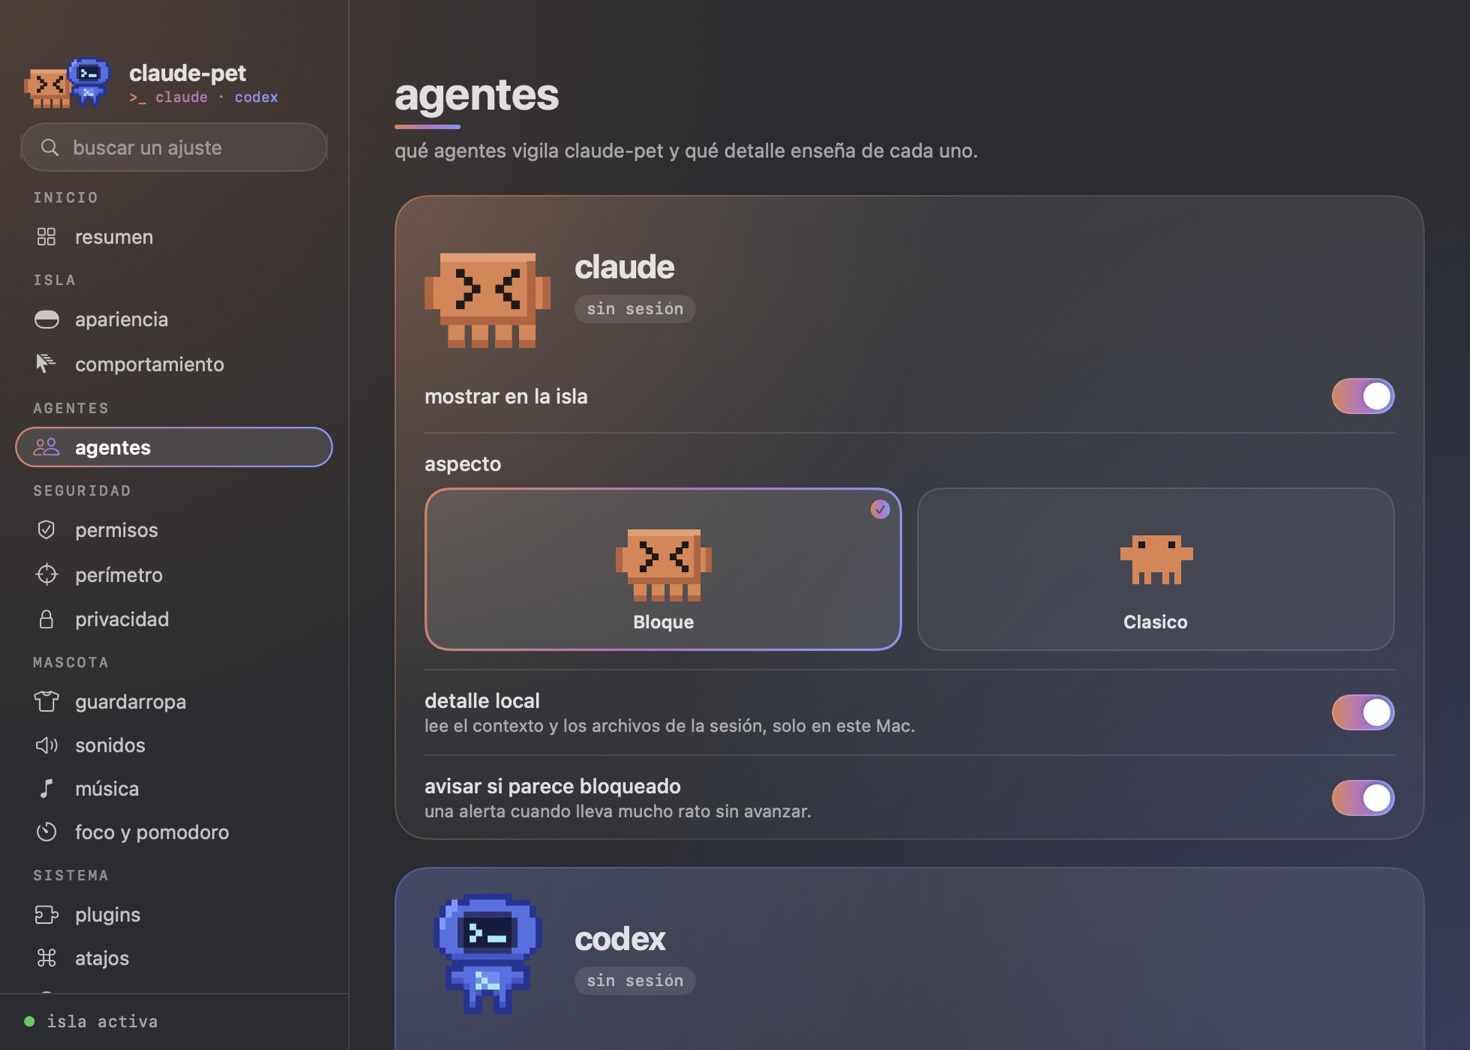
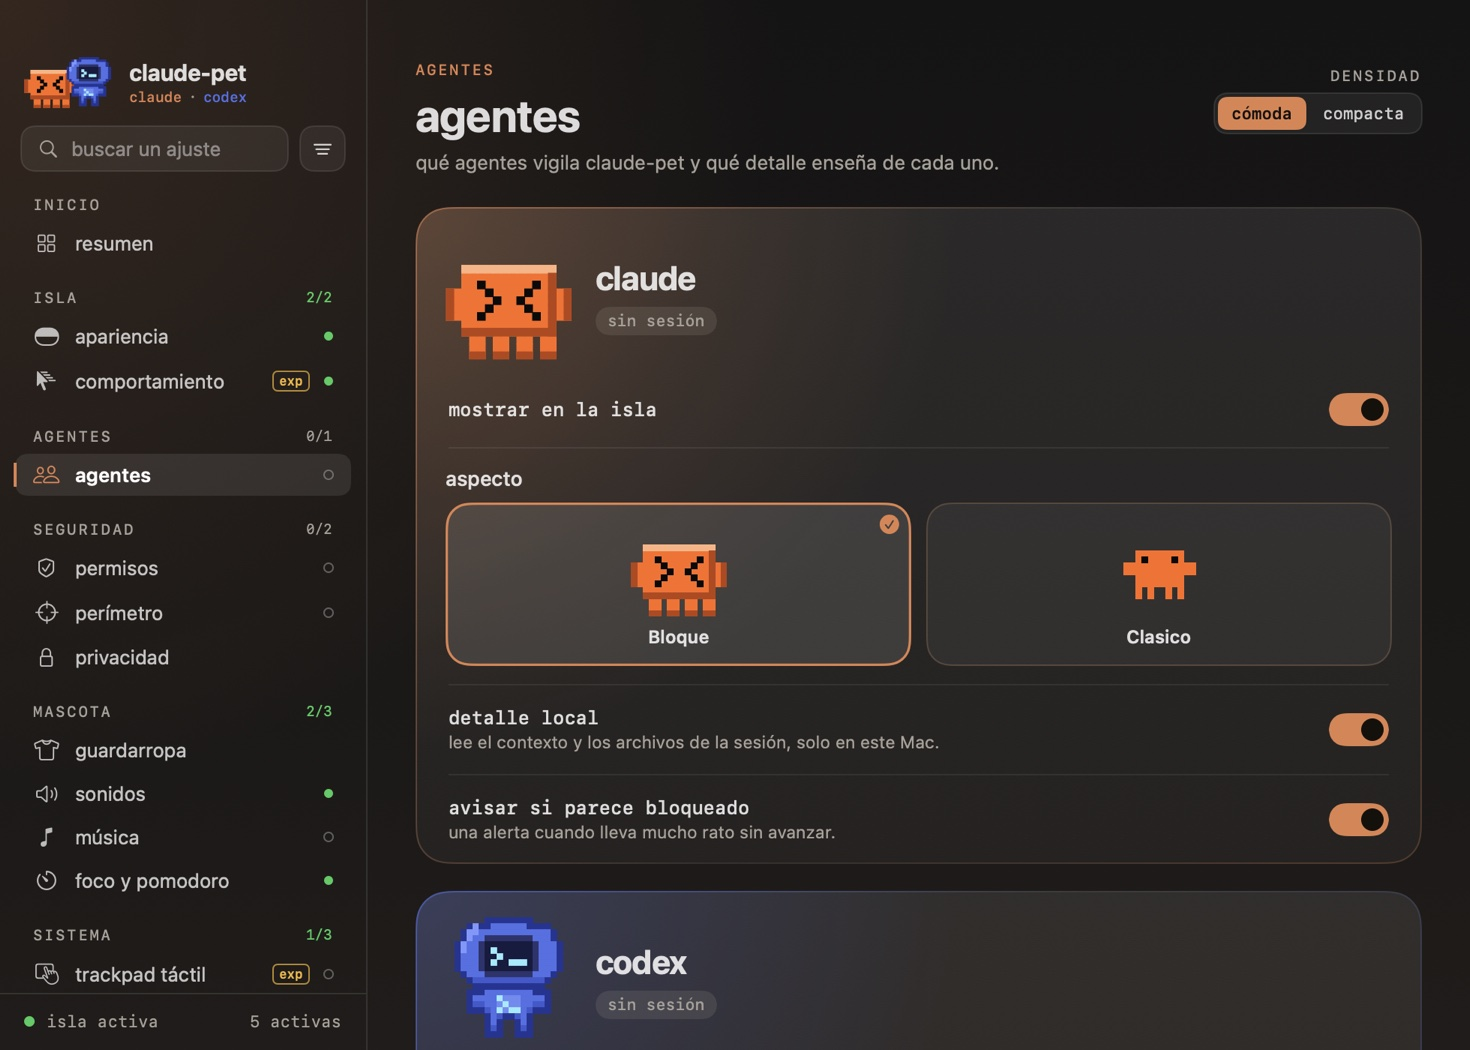
docs: ajustes y mission control rediseñados, filtros, densidad, accesibilidad y capturas nuevas

diff --git a/docs/AJUSTES.md b/docs/AJUSTES.md
@@ -2,13 +2,17 @@
 
 Ventana propia de claude-pet, en el mismo estilo oscuro de cristal que la isla. Se abre desde el menú de la barra ("ajustes…", ⌘,) o con `ClaudePet --open-settings <página>` (`resumen`, `apariencia`, `comportamiento`, `agentes`, `permisos`, `perimetro`, `privacidad`, `guardarropa`, `sonidos`, `musica`, `foco`, `atajos`, `copia`, `acerca`).
 
-La barra lateral agrupa las páginas en inicio, isla, agentes, seguridad, mascota y sistema, y el buscador filtra por título y por palabras clave sin distinguir acentos: escribir "restauracion" lleva a copia y restauración.
+La barra lateral agrupa las páginas en inicio, isla, agentes, seguridad, mascota y sistema. Junto a cada grupo va un contador de funciones encendidas (`2/3`), cada página que gobierna una función lleva un punto (verde encendida, hueco apagada), las que tienen opciones experimentales llevan la marca `exp`, y el pie suma las activas.
+
+El buscador filtra por título y por palabras clave sin distinguir acentos: escribir "restauracion" lleva a copia y restauración. El botón de filtros (con el número de filtros activos) abre fichas: categoría (todo, isla, agentes, seguridad, mascota, sistema, cada una con cuántas páginas quedan) y «solo activados» y «solo experimentales», que se combinan con el texto. Los filtros no se guardan: al reabrir la ventana empieza limpia.
+
+![filtros](img/ajustes-filtro-activados.jpg)
 
 ## páginas
 
 | página | qué controla |
 |---|---|
-| resumen | sesiones, herramientas, permisos y errores de hoy; nivel, racha y semana; copiar o guardar como imagen; acceso a mission control y relevo |
+| resumen | tablero: una tarjeta por agente con su mascota y su estado, lo de hoy, la racha con sus siete días, la semana en barras (con el cambio frente a la anterior), el uso del plan (5 h y 7 d) y el contexto de cada agente; copiar o guardar como imagen; acceso a mission control y relevo |
 | apariencia | modo, ubicación, contenido compacto, reloj, pantalla, mascotas, animaciones, partido, burbuja y avisos visuales, con vista previa |
 | comportamiento | **abrir al iniciar sesión**, ancho y retraso de la zona de activación, cuánto tarda en plegarse, **acceso rápido de la isla** (qué acciones y en qué orden), aparición automática y fijar mascotas |
 | agentes | una tarjeta por agente con su estado, mostrar u ocultar, aspecto con previsualización, gestos, detalle local y aviso de bloqueo |
@@ -26,7 +30,7 @@ La barra lateral agrupa las páginas en inicio, isla, agentes, seguridad, mascot
 
 ## identidad
 
-Claude y Codex comparten la rejilla pixel-art y el glifo `>_`; el color los separa. La ventana usa vidrio real del sistema y el dúo naranja (el bloque de Claude) → violeta → azul (la nube de Codex). Las dos mascotas van en la barra lateral, vestidas como las tengas, y cada agente tiene su tarjeta teñida de su color.
+Claude y Codex comparten la rejilla pixel-art y el glifo `>_`; el color los separa. La ventana usa vidrio real del sistema y un solo acento, el naranja `#E0824F` de Claude; el azul `#5270E8` de Codex aparece solo donde se habla de Codex. Rótulos y cifras en mono, tarjetas sin degradados y sin cajas anidadas. Las dos mascotas van en la barra lateral, vestidas como las tengas.
 
 ![resumen](img/ajustes-resumen.jpg)
 
@@ -40,6 +44,37 @@ Claude y Codex comparten la rejilla pixel-art y el glifo `>_`; el color los sepa
 
 ![atajos](img/ajustes-atajos.jpg)
 
+## densidad y accesibilidad
+
+- **densidad**: cómoda o compacta, arriba a la derecha de cada página (`settingsDensity` en UserDefaults, entra en la copia de ajustes). La compacta reduce el relleno de filas, tarjetas y barra lateral.
+- **reducir movimiento**: sigue el ajuste del sistema. Las gráficas salen ya dibujadas, los interruptores y selectores cambian sin animar y las mascotas no respiran.
+- **contraste alto**: con «aumentar contraste» del sistema las líneas, bordes y textos secundarios suben de opacidad (el estado de un interruptor también se distingue por la posición de la perilla y el de una ficha por la marca ✓). `CLAUDE_PET_HIGH_CONTRAST=1` lo fuerza.
+- **CPU en reposo**: las gráficas son `Canvas` que se dibujan una vez y solo crecen (0,45 s) cuando cambian los datos; no hay temporizadores ni animaciones permanentes.
+
+![compacta](img/ajustes-resumen-compacta.jpg)
+
+## añadir una página
+
+Dos líneas: un `case` en `SettingsPage` (`SettingsModel.swift`) y una entrada en `SettingsPage.registry` (`SettingsRegistry.swift`) con título, símbolo, grupo, palabras de búsqueda, subtítulo, si es experimental, cómo saber si su función está encendida (`isOn`, opcional) y la vista. Barra lateral, buscador, filtros, contadores y capturas la recogen solos; `--selftest-settings` falla si falta algo.
+
+## mission control
+
+El panel (menú de la barra, dock de la isla o «abrir» en resumen) usa el mismo lenguaje. Arriba, lo único que pide atención ahora; debajo, filtros visibles: buscador de texto, agente, rango (todo, última hora, hoy), estado (todos, activos, esperando, listos, error, con el número de eventos de cada uno), proyecto y orden, más el modo de vista:
+
+- **lista**: hora, agente, estado, proyecto y antigüedad.
+- **cuadrícula**: una tarjeta por proyecto con la rama y la salud de su git, sus siete días de actividad en barras, cuántas acciones de cada agente y cuándo fue la última. Pulsar una tarjeta filtra por ese proyecto.
+- **línea de tiempo**: la estela de la sesión y una línea vertical de eventos.
+
+Los filtros viven en `MissionFilter` (se prueban con `--selftest-mission-filter`) y se aplican sobre la misma lista que ya guardaba `MissionControl` (16 eventos, solo en memoria). Agente, orden, estado, rango y modo de vista se recuerdan en UserDefaults; el texto y el proyecto no. El git de una tarjeta es el último que se leyó de ese proyecto: si aún no se ha leído, dice «git sin leer». Los estados vacíos distinguen «sin actividad todavía» de «ningún evento coincide» (con botón para quitar filtros). `ClaudePet --snapshot-mission <carpeta>` dibuja las cuatro vistas con datos de ejemplo.
+
+![lista](img/mission-lista.jpg)
+
+![cuadrícula](img/mission-cuadricula.jpg)
+
+![línea de tiempo](img/mission-linea.jpg)
+
+![vacío](img/mission-vacio.jpg)
+
 ## cosas que conviene saber
 
 - **sonidos por categoría**: el volumen de interfaz, alertas y mascota se multiplica por el general. El motor ya lo soportaba; ahora se guarda y se aplica desde un solo sitio (`PetStore.applySound`), así que isla, menú y ajustes no se desincronizan.
@@ -47,7 +82,7 @@ Claude y Codex comparten la rejilla pixel-art y el glifo `>_`; el color los sepa
 - **copia**: el archivo es `{ "format": "claude-pet-settings", "version": 1, "settings": { ... } }`. Al importar solo se aceptan claves conocidas, con el tipo y el rango correctos y hasta 256 KB; el resto se descarta y se cuenta. Los ajustes se leen al arrancar, así que tras importar o restablecer la app ofrece reiniciar.
 - **abrir al iniciar sesión**: usa `SMAppService.mainApp` y el interruptor muestra siempre el estado real del sistema, sin guardar nada aparte. Si macOS pide aprobación, la fila lo dice y ofrece abrir Ajustes del Sistema; si el registro falla, enseña el código de error. Con el binario suelto de `.build/debug` (sin paquete .app) queda desactivado con una explicación. Se vuelve a leer al abrir la página y al volver a primer plano, sin temporizador.
 - **diagnóstico**: el registro vive en `Diagnostics.swift`, sobre `os.Logger` con el subsystem `local.claudepet.app` y las categorías `app`, `sockets`, `remoto`, `plugins` e `inicio`. Se lee en Consola.app o con `log show --predicate 'subsystem == "local.claudepet.app"' --last 1h`. Solo registra nombres de componentes, códigos de error (dominio y número, nunca el mensaje) y contadores: nunca comandos, rutas, contenido, códigos de emparejamiento ni títulos. El botón «copiar diagnóstico» de acerca de pone en el portapapeles la versión, macOS, modelo, notch, funciones opcionales (sí o no) y el estado de los sockets, sin rutas ni nombre de usuario.
-- **capturas**: `ClaudePet --snapshot-settings <carpeta>` genera una imagen por página.
-- **pruebas**: `ClaudePet --selftest-login` cubre la traducción del estado de `SMAppService` a la interfaz y `--selftest-diag` el registro y el texto del diagnóstico. `ClaudePet --selftest-settings` cubre el buscador, los atajos (duplicados y entradas inválidas), el volumen por categoría y la copia (ida y vuelta, valores hostiles, formato incorrecto, tamaño y restablecer).
+- **capturas**: `ClaudePet --snapshot-settings <carpeta>` genera una imagen por página, más variantes (filtros, compacta, contraste alto). El inicio se dibuja con una semana de ejemplo que solo vive en memoria; `CLAUDE_PET_SNAPSHOT_EMPTY=1` lo desactiva.
+- **pruebas**: `ClaudePet --selftest-login` cubre la traducción del estado de `SMAppService` a la interfaz y `--selftest-diag` el registro y el texto del diagnóstico. `ClaudePet --selftest-settings` cubre el registro de páginas, el buscador con sus filtros, la densidad, la tendencia semanal, los medidores del plan, las traducciones y también el buscador, los atajos (duplicados y entradas inválidas), el volumen por categoría y la copia (ida y vuelta, valores hostiles, formato incorrecto, tamaño y restablecer).
 
 ![copia](img/ajustes-copia.jpg)

diff --git a/CHANGELOG.md b/CHANGELOG.md
@@ -4,6 +4,15 @@ Formato basado en [Keep a Changelog](https://keepachangelog.com/es-ES/1.1.0/). L
 
 ## [Sin publicar]
 
+### rediseño
+- Ajustes: kit de controles nuevo (interruptor, selector, ficha, fila, tarjeta, medidor, barras y anillo) con un solo acento, el naranja de Claude, y el azul de Codex solo para Codex; sin degradados ni cajas anidadas. Densidad cómoda o compacta, «reducir movimiento» y contraste alto respetados.
+- Resumen como tablero: tarjeta por agente con su mascota, hoy, racha de siete días, semana en barras con el cambio frente a la anterior, plan de 5 h y 7 d, y contexto. Las gráficas son `Canvas` propio que se dibuja una vez y solo se anima al cambiar.
+- Buscador de ajustes con fichas de filtro (categoría, solo activados, solo experimentales), contador de funciones encendidas por grupo y punto de estado en cada página.
+- Registro de páginas de ajustes (`SettingsRegistry.swift`): añadir una página son un `case` y una entrada.
+- Mission control rediseñado: filtros visibles por agente, proyecto, estado, rango y texto, orden, tres vistas (lista, cuadrícula de proyectos con salud git y actividad semanal, línea de tiempo) y estados vacíos. `MissionFilter` amplía los filtros que ya existían; la ventana pasa a 760 pt de ancho. `--snapshot-mission` dibuja las vistas.
+- Traducciones al inglés de todo lo nuevo y de los subtítulos de ajustes que faltaban. Pruebas nuevas en `--selftest-settings` y `--selftest-mission-filter`.
+- Capturas de `docs/img/ajustes-*.jpg` regeneradas y `docs/img/mission-*.jpg` nuevas.
+
 ### añadido
 - Recuperación inteligente del cerebro (opcional, apagada por defecto con `ClaudePet --brain config smart on`): en cada mensaje un hook `UserPromptSubmit` inyecta solo las notas relevantes (BM25 + semántica local de NaturalLanguage + RRF, re-ranking heurístico, padre-hijo) en un formato compacto y dentro de un presupuesto de tokens; `ClaudePet --brain recall "consulta"`, condensación extractiva de notas antiguas en el repaso (las originales se archivan, no se borran) y arreglo del `cwd` de `pet-brain.sh start` con `jq`. Pruebas: `--selftest-brain-recall` y `tests/brain-hook.sh`. Detalle, límites y técnicas que quedan fuera en [docs/RECUPERACION.md](docs/RECUPERACION.md).
 - Ensayo: en el permiso de un comando, «ensayar en una copia» lo ejecuta en un clon instantáneo del proyecto (APFS, sin ocupar espacio), dentro de una caja de arena sin red y sin escritura fuera de la copia, y la tarjeta dice qué pasaría: archivos que borraría, cambiaría o crearía, si movería HEAD o descartaría trabajo sin commitear y si quiso escribir en tu carpeta personal. El proyecto real no se toca. También desde la terminal con `ClaudePet --rehearse "comando" [carpeta]`. Detalle y límites en [docs/ENSAYO.md](docs/ENSAYO.md).
